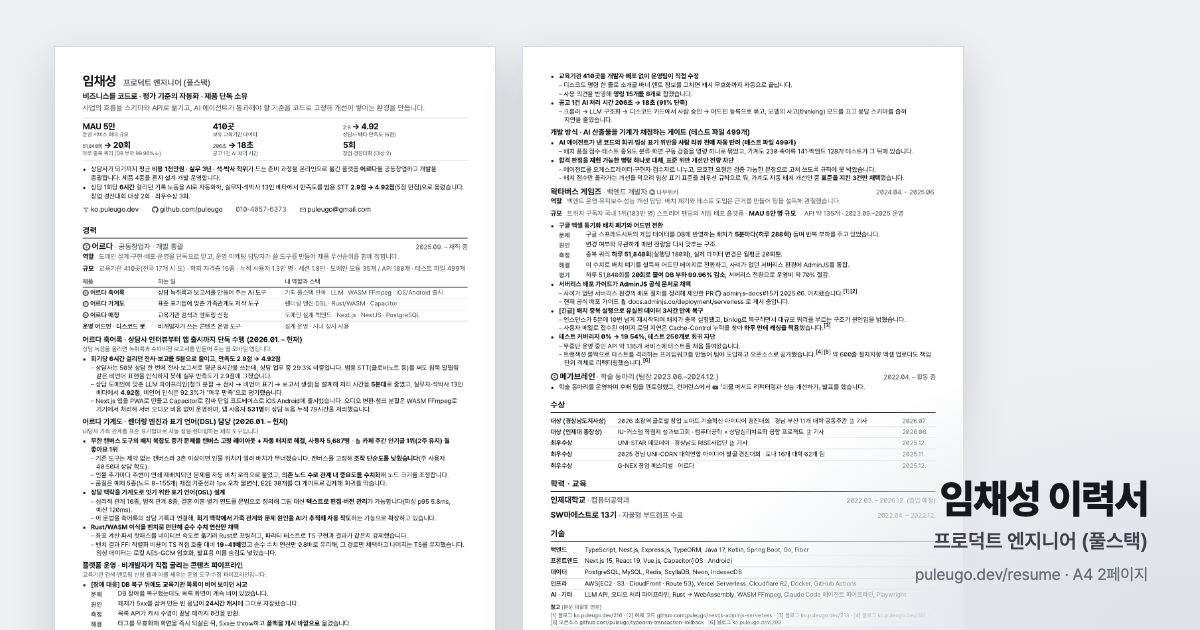
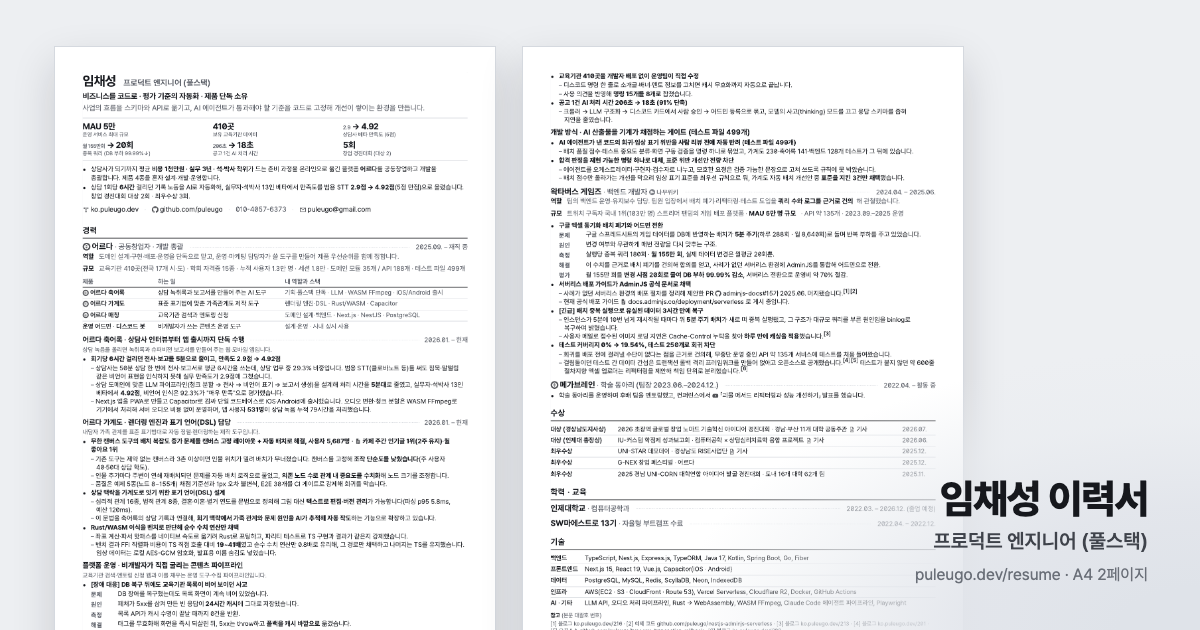
fix: 배치 주기를 명시하고 중복 쿼리 단위를 월 기준으로 통일
'하루 51,840회 → 20회(월평균)'로 기준이 뒤섞여 있던 것을
월 155만 회 → 20회로 맞추고, 5분 주기를 문제·긴급 대응 양쪽에 명시.
OG 이미지 재생성.

Claude-Session: https://claude.ai/code/session_01XPm84a9ZQrw2tx4vvMDftN

diff --git a/resume/index.html b/resume/index.html
@@ -330,7 +330,7 @@
 		<li><b>MAU 5만</b><span>운영 서비스 최대 규모</span></li>
 		<li><b>410곳</b><span>보유 <t data-x="수련기관">교육기관</t> 데이터</span></li>
 		<li><b><span class="from">2.9</span> → 4.92</b><span>상담사 베타 만족도 (5점)</span></li>
-		<li><b><span class="from">51,840회</span> → 20회</b><span>하루 중복 쿼리 (DB 부하 99.96%↓)</span></li>
+		<li><b><span class="from">월 155만회</span> → 20회</b><span>중복 쿼리 (DB 부하 99.99%↓)</span></li>
 		<li><b><span class="from">206초</span> → 18초</b><span>공고 1건 AI 처리 시간</span></li>
 		<li><b>5회</b><span>창업 경진대회 (대상 2)</span></li>
 	</ul>
@@ -451,11 +451,11 @@
 	<ul>
 		<li class="case-study"><b>구글 엑셀 동기화 배치 폐기와 어드민 전환</b>
 				<dl>
-					<dt>문제</dt><dd>구글 스프레드시트의 게임 데이터를 DB에 반영하는 배치가 <b>5분마다(하루 288회)</b> 돌며 반복 부하를 주고 있었습니다.</dd>
+					<dt>문제</dt><dd>구글 스프레드시트의 게임 데이터를 DB에 반영하는 배치가 <b>5분 주기</b>(하루 288회 · 월 8,640회)로 돌며 반복 부하를 주고 있었습니다.</dd>
 					<dt>원인</dt><dd>변경 여부와 무관하게 매번 전량을 다시 맞추는 구조.</dd>
-					<dt>측정</dt><dd>중복 쿼리 <b>하루 51,840회</b>(실행당 180회), 실제 데이터 변경은 월평균 20회뿐.</dd>
+					<dt>측정</dt><dd>실행당 중복 쿼리 180회 · <b>월 155만 회</b>, 실제 데이터 변경은 월평균 20회뿐.</dd>
 					<dt>해결</dt><dd>이 수치를 근거로 배치 폐기를 건의해 합의를 얻고, 사례가 없던 서버리스 환경에 AdminJS를 통합해 어드민으로 전환.</dd>
-					<dt>평가</dt><dd>하루 51,840회를 <b>20회로 줄여 DB 부하 99.96% 감소</b>, 서버리스 전환으로 운영비 약 70% 절감.</dd>
+					<dt>평가</dt><dd>월 155만 회를 <b>변경 시점 20회로 줄여 DB 부하 99.99% 감소</b>, 서버리스 전환으로 운영비 약 70% 절감.</dd>
 				</dl></li>
 		<li class="task"><b>서버리스 배포 가이드가 <b>AdminJS 공식 문서</b>로 채택</b>
 				<ul class="how">
@@ -464,7 +464,7 @@
 				</ul></li>
 		<li class="task"><b><span class="tag">[긴급]</span> 배치 중복 실행으로 유실된 데이터 <b>3시간 만에 복구</b></b>
 				<ul class="how">
-					<li>인스턴스가 5분에 10번 넘게 재시작되며 배치가 중복 실행됐고, binlog로 복구하면서 대규모 쿼리를 부르는 구조가 원인임을 밝혔습니다.</li>
+					<li>인스턴스가 5분에 10번 넘게 재시작될 때마다 위 <b>5분 주기 배치</b>가 새로 떠 중복 실행됐고, 그 구조가 대규모 쿼리를 부른 원인임을 binlog로 복구하며 밝혔습니다.</li>
 					<li>사용자 메일로 접수된 이미지 로딩 지연은 Cache-Control 누락을 찾아 <b>하루 만에 캐싱을 적용</b>했습니다.<sup class="footnote"><a href="https://ko.puleugo.dev/213" data-preview data-tip="블로그 「[CloudFlare] 이미지 로드 속도 향상하기」" data-card="https://ko.puleugo.dev/213">3</a></sup></li>
 				</ul></li>
 		<li class="task"><b>테스트 커버리지 <b>0% → 19.54%</b>, 테스트 250개로 회귀 차단</b>
